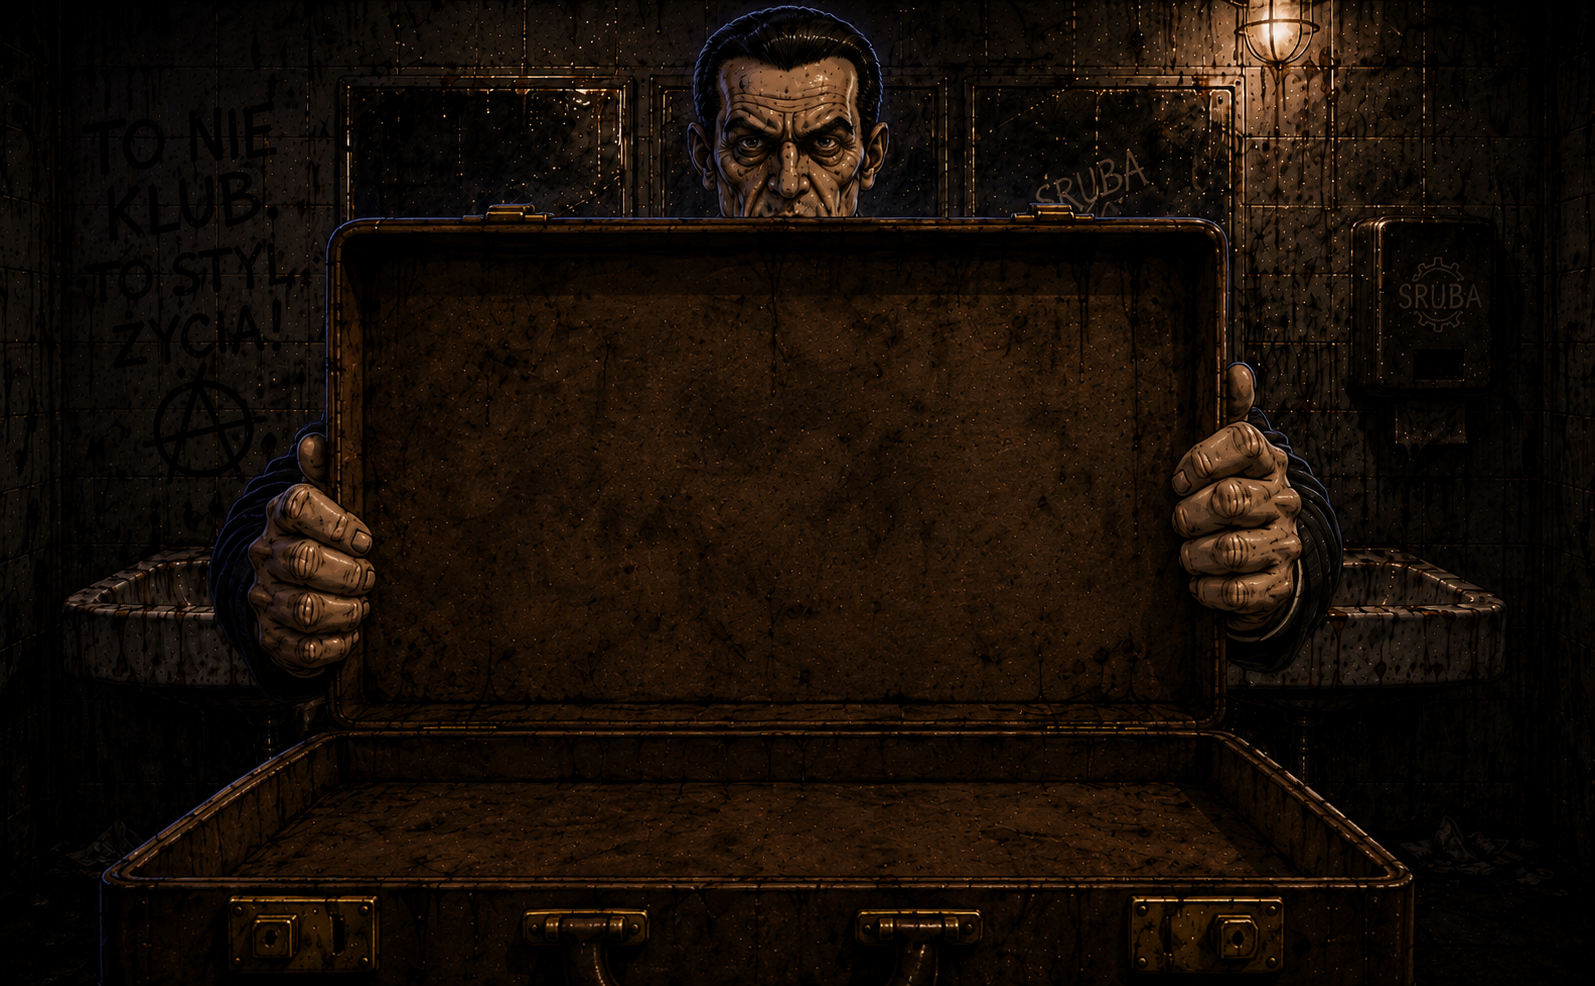
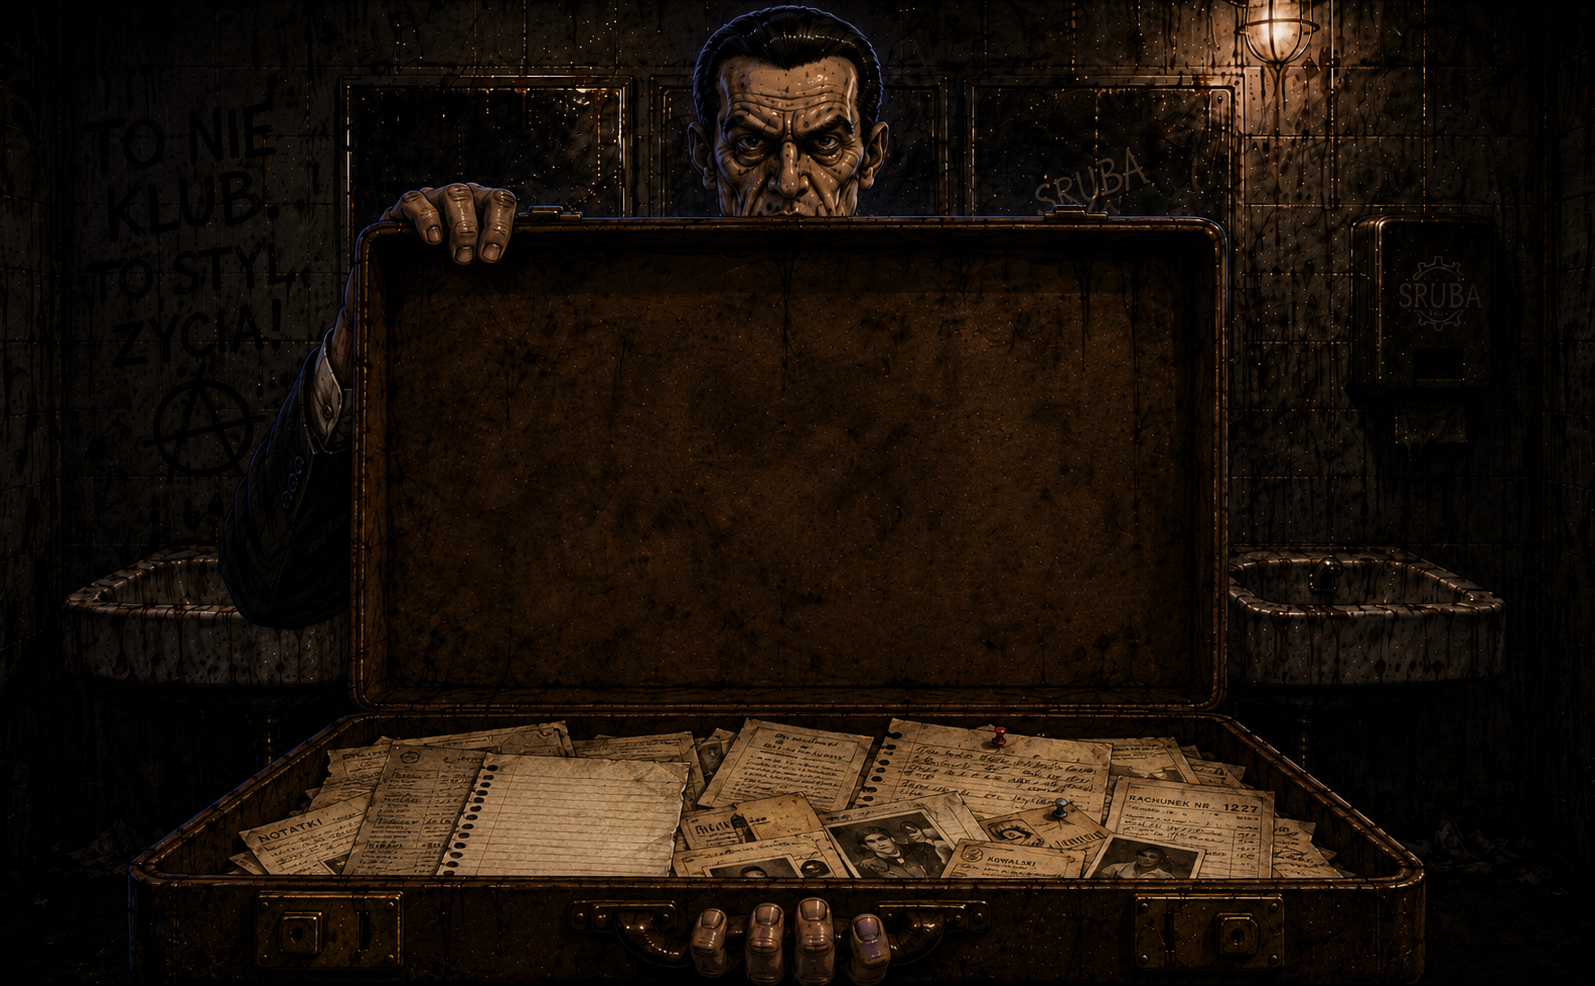
koncowe poprawki bossow

diff --git a/frontend/src/css/BossView.css b/frontend/src/css/BossView.css
@@ -24,8 +24,8 @@
     height: 400px;
 
     padding: 20px;
-    left: 295px;
-    top: 195px;
+    left: 304px;
+    top: 202px;
 }
 
 .boss-card-img {

diff --git a/frontend/src/css/PremiumView.css b/frontend/src/css/PremiumView.css
@@ -135,6 +135,8 @@
 
 	cursor: pointer;
 
+    z-index: 20;
+
 	text-shadow: 0 0 4px rgba(216, 155, 82, 0.7);
 
 	transition: